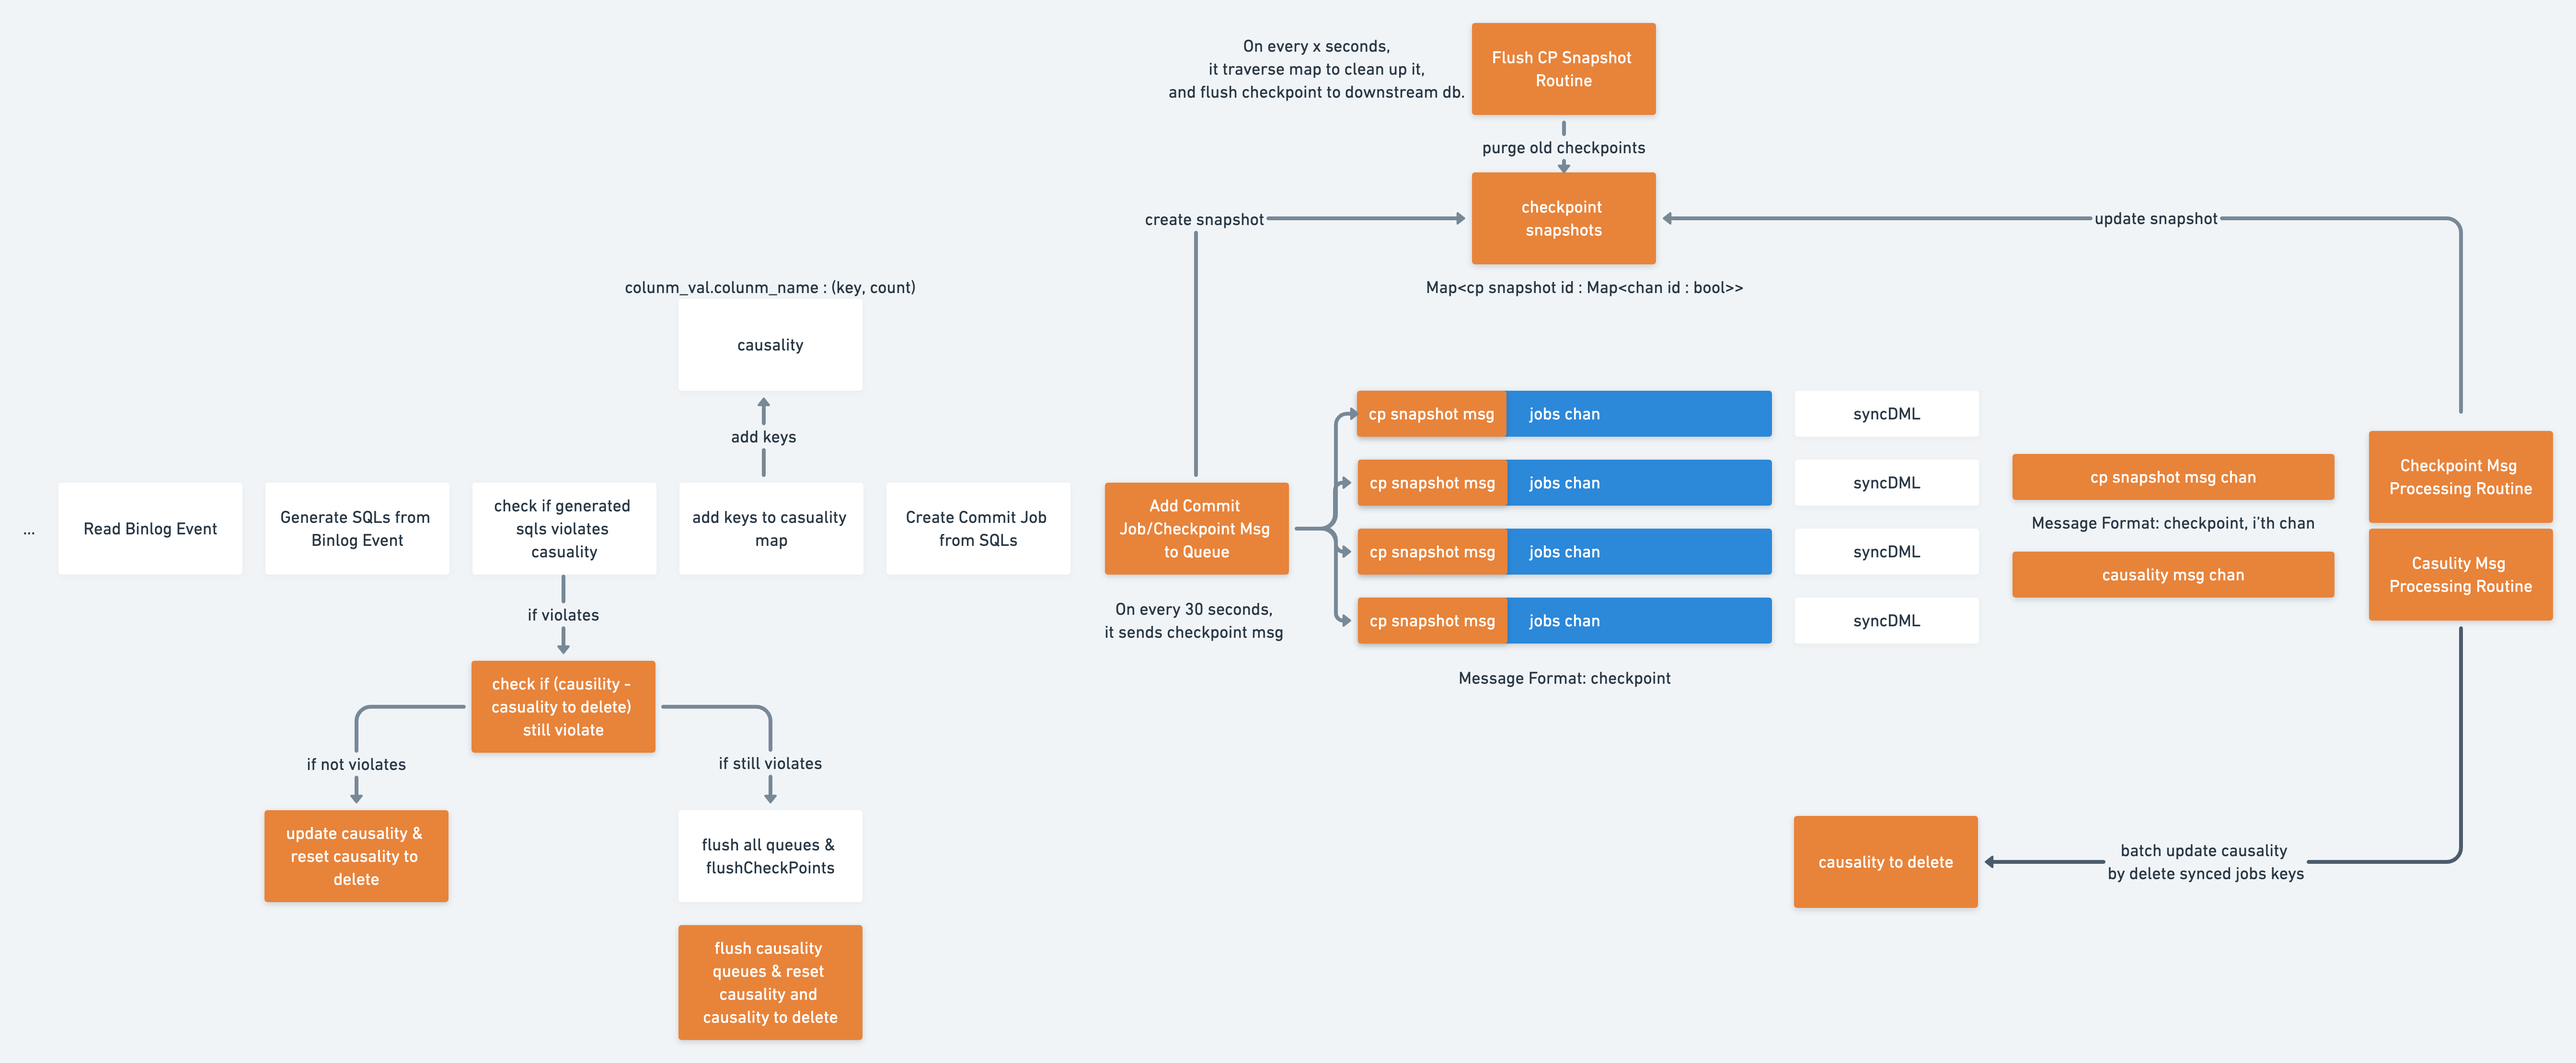
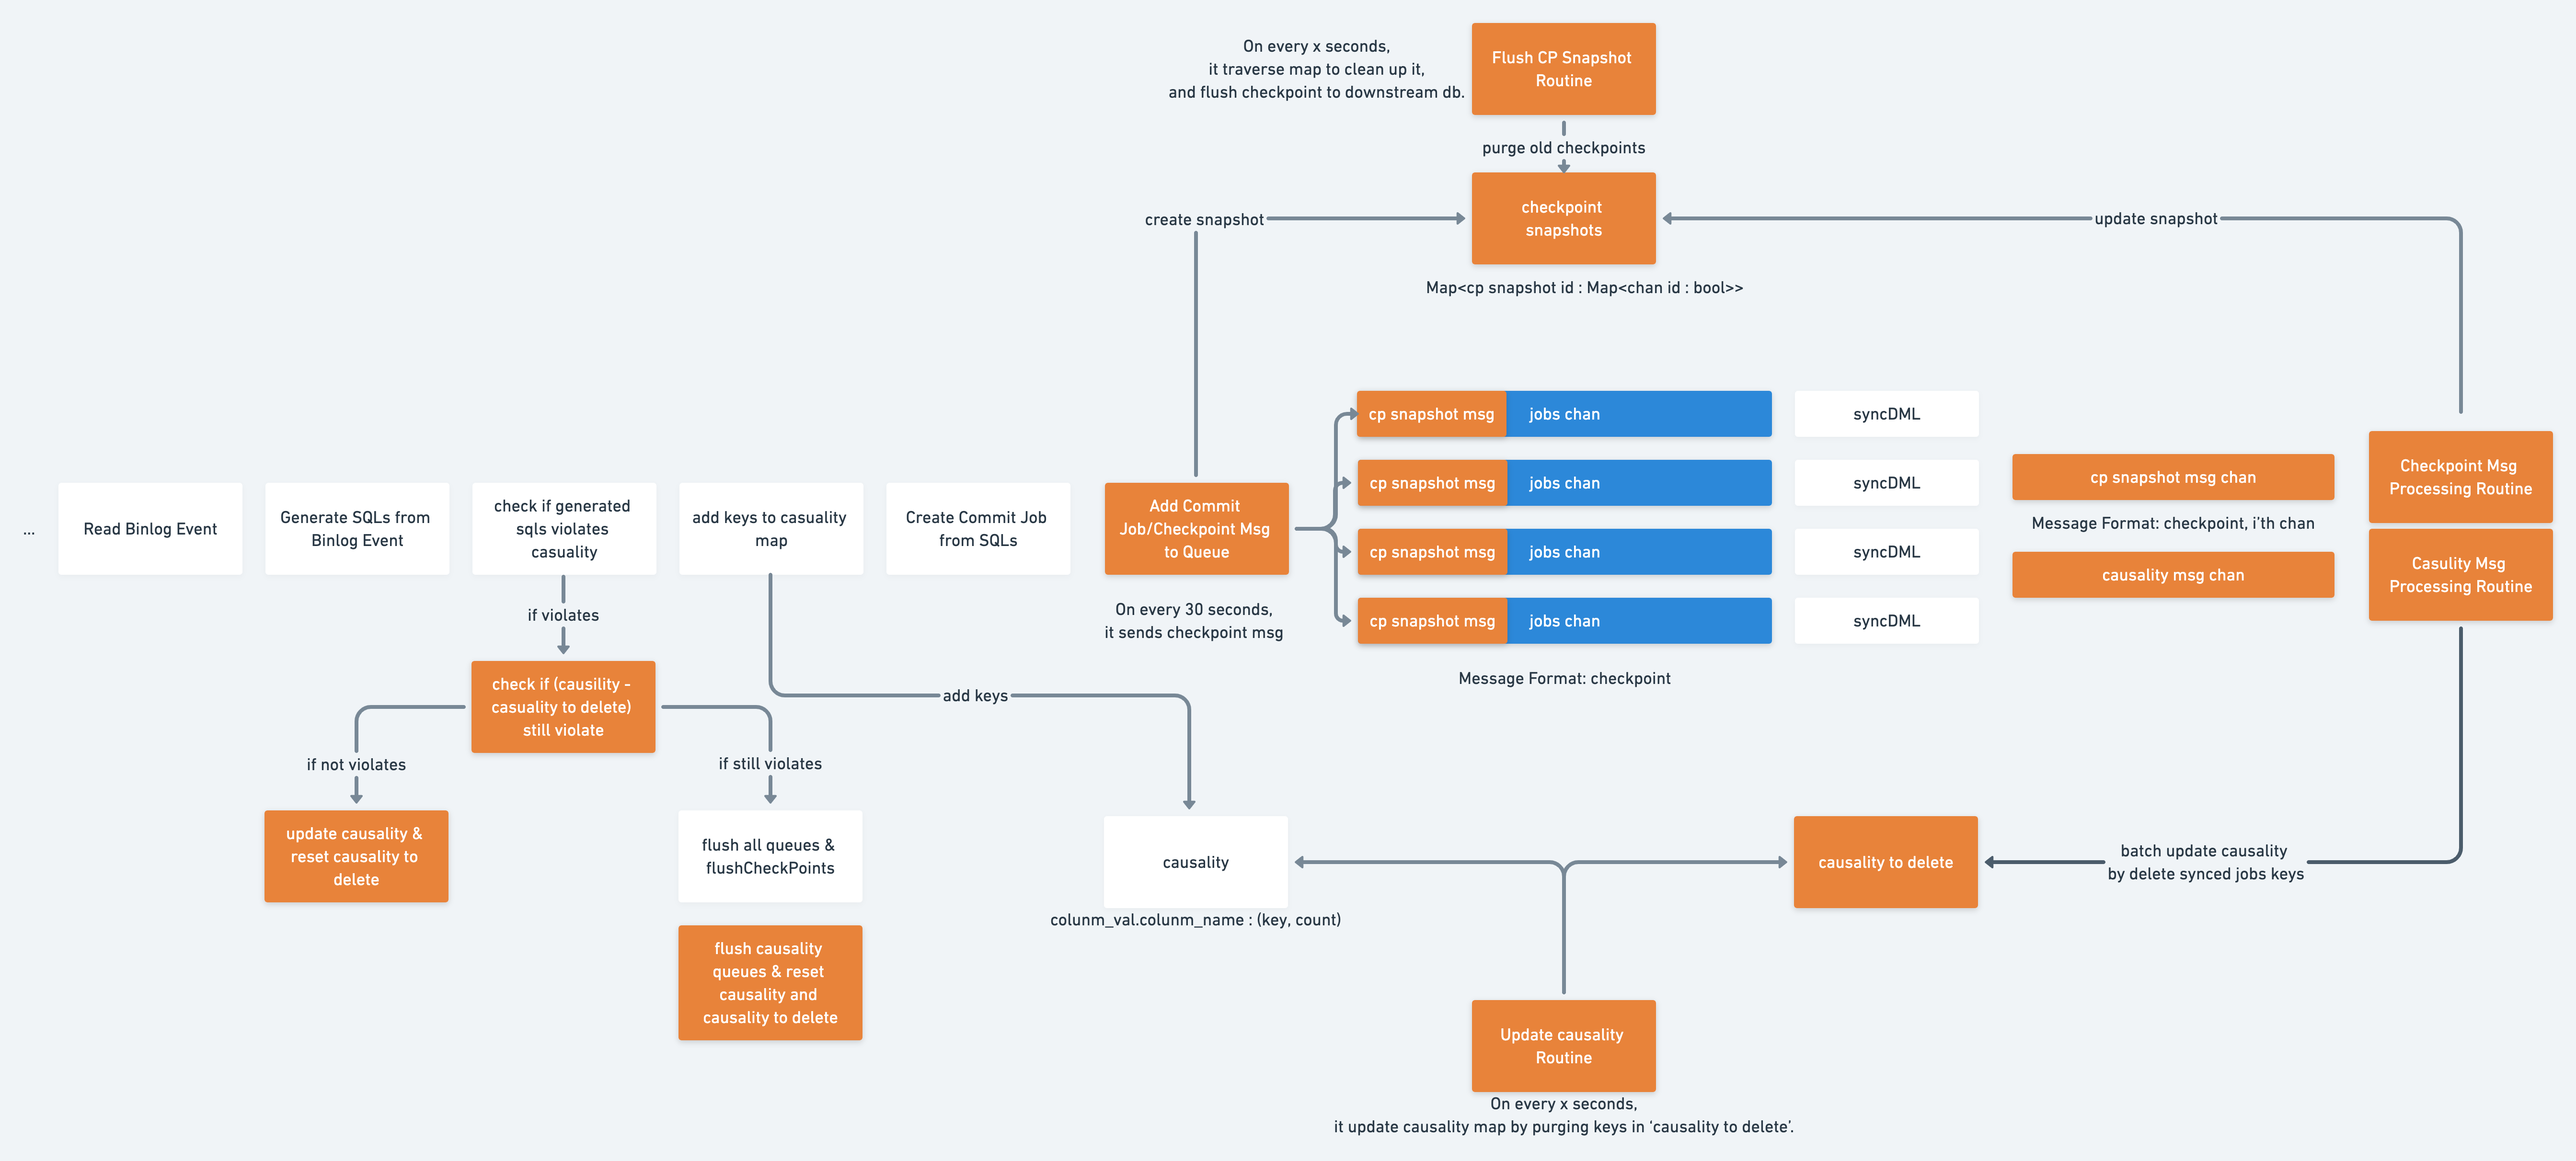
Improve rfc based on comments

diff --git a/docs/RFCS/20211012_async_checkpoint_flush.md b/docs/RFCS/20211012_async_checkpoint_flush.md
@@ -86,7 +86,7 @@ However, the missing part is that we are leaving the causality structure filled 
 ![DM asynchronously checkpoints flush with causality optimization](../media/asynchronously-checkpoint-flush-with-causality-opt.png)
 The component colored with orange are new components added for async checkpoint flush.
 
-At the time of executing a batch of sql jobs in syncDML, we can collect those causality keys from these executed sql jobs, and so we can collect causality keys to delete in a separate data structure(TBD).
+At the time of executing a batch of sql jobs in syncDML, we can collect those causality keys from these executed sql jobs, and so we can collect causality keys to delete in a separate data structure(TBD). There is a seperate routine running in background to purge causality keys to delete and update current causality on certain time interval.
 
 Whenever we detect causality conflicts during processing upstream binlog event, we can update the current out-of-date causality with those causality-to-delete keys, and then recheck if it still violates causality rules. If still so, we will need to pause and flush all jobs in the channel.
 
@@ -109,20 +109,19 @@ For compatibility testing, we would like to evaluate async checkpoint flush comp
 - Evaluate if async checkpoint compatible with safe mode DM
 
 ## Metrics & Logs
-Since extra components are introduced with asynchronous checkpoint flush, we need to add related metrics & logs to help us observe the DM cluster. 
+Since extra components are introduced with asynchronous checkpoint flush, we need to add related metrics & logs to help us observe the DM cluster. The following design will subject to change in the development phase.
+
+To get a better view of these new metrics and their impact on performance, we can add the [new Grafana dashboard](https://github.com/pingcap/dm/blob/master/dm/dm-ansible/scripts/DM-Monitor-Professional.json).
 
 ### Checkpoint
 #### Mertics
-To understand start time of checkpoint flush msg, we record the checkpoint position when it’s pushed into the job chan
-
-To understand each job channel processing status, we record the checkpoint position when it’s received by syncDML
-
-To understand end time of checkpoint flush msg, we record the checkpoint pos when [checkpoint msg processing routine] find out a recent checkpoint is ready to flush at the time it process the received checkpoint msg from a channel
-
-To understand flush time of checkpoint, we record the checkpoint when it flushed in [checkpoint flush routine]
+With following two metrics, we can conclude the time span of checkpoint snapshot msg:
+- To understand start time of checkpoint snapshot msg, we record the checkpoint position when it’s pushed into the job chan
+- To understand end time of checkpoint snapshot msg, we record the checkpoint pos when [checkpoint msg processing routine] find out a recent checkpoint is ready to flush at the time it process the received checkpoint msg from a channel
+- To understand flush time of checkpoint, we record the checkpoint when it flushed in [checkpoint flush routine]
 #### Logs
-Log checkpoint when it’s pushed into job channel
-Log checkpoint ordered map when [checkpoint msg processing routine] update it
+Log checkpoint when it’s pushed into job channel(need to evaluate its perf impact due to large amount of log generated)
+Log checkpoint when it’s ready to flush after received all job chan msg(need to evaluate its perf impact due to large amount of log generated)
 Log flushed and purged checkpoints
 ### Causality
 #### Mertics
